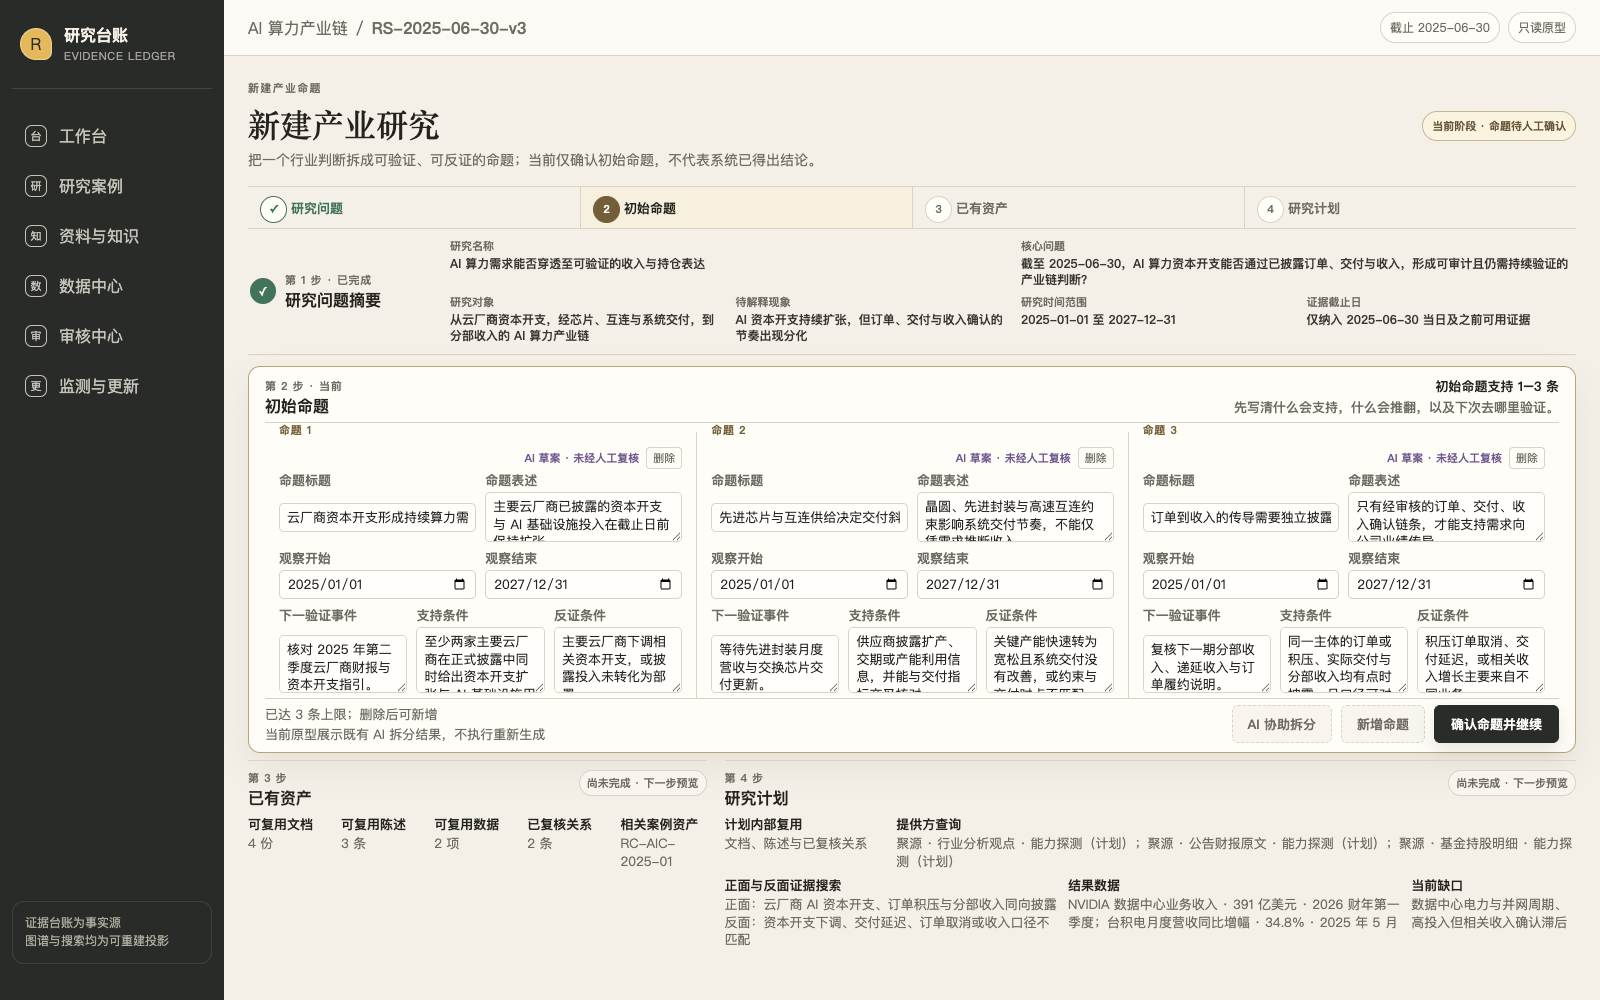
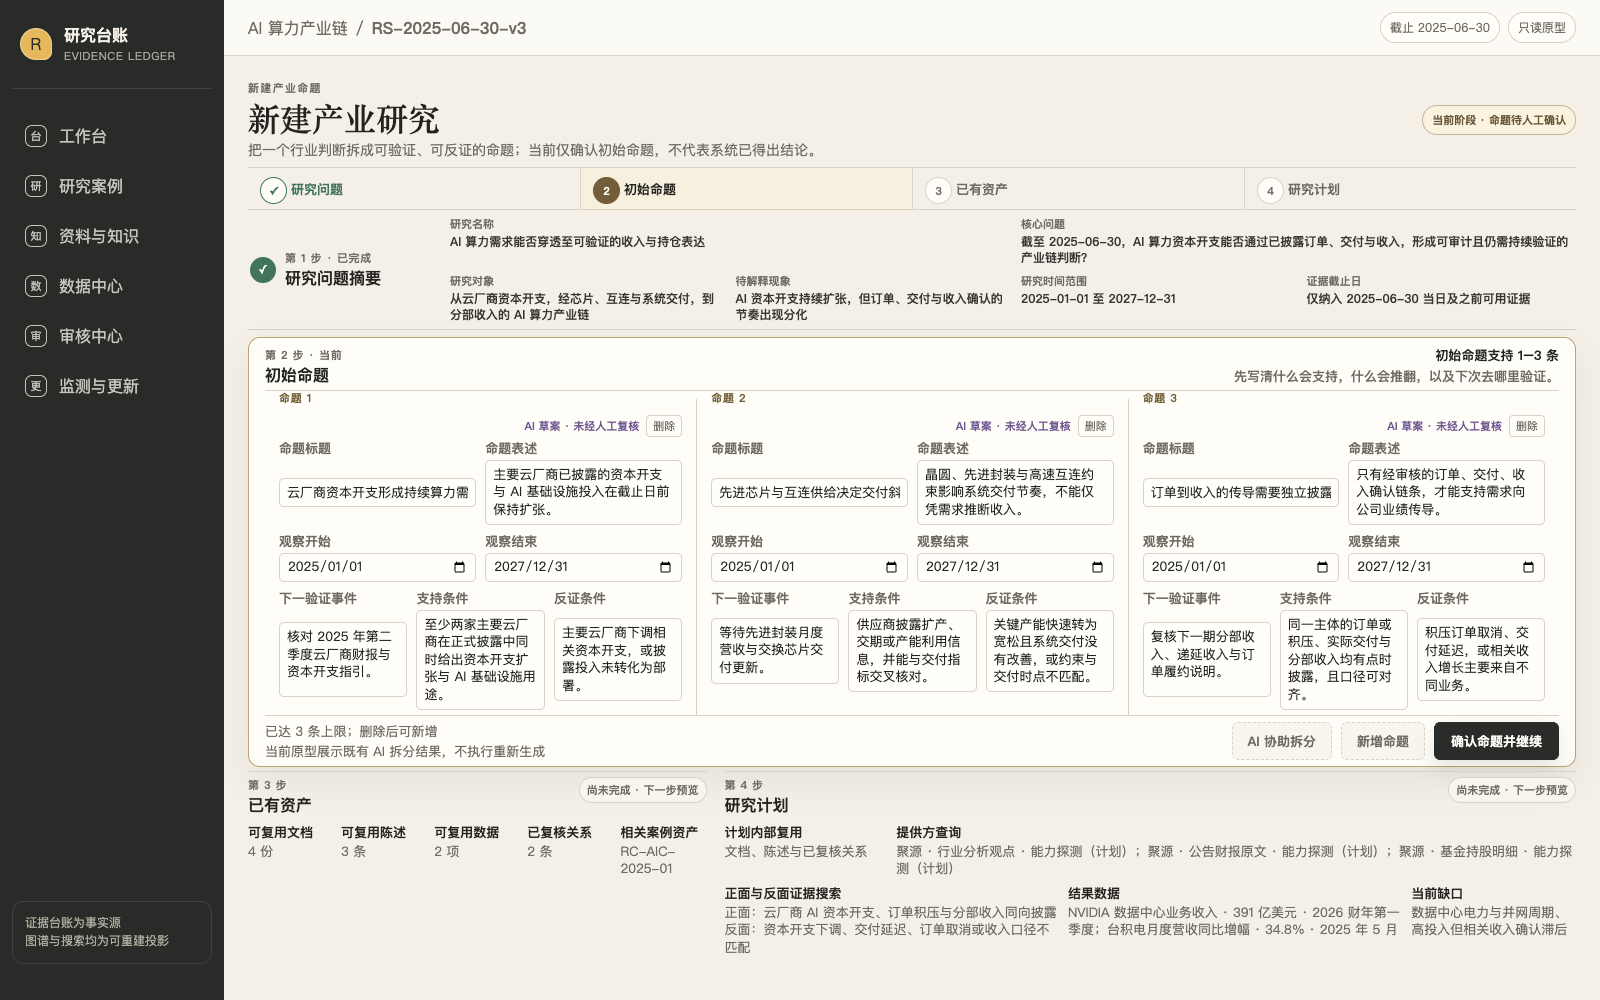
fix: autosize research thesis drafts

diff --git a/prototype/ui/app.js b/prototype/ui/app.js
@@ -625,6 +625,17 @@
       if (!draft) continue;
       for (const field of DRAFT_FIELDS) editor.querySelector(`[data-field="${field}"]`).value = draft[field];
     }
+    autoSizeThesisTextareas(form);
+  }
+
+  function autoSizeThesisTextarea(textarea) {
+    textarea.style.height = "auto";
+    const borderHeight = textarea.offsetHeight - textarea.clientHeight;
+    textarea.style.height = `${textarea.scrollHeight + borderHeight}px`;
+  }
+
+  function autoSizeThesisTextareas(root) {
+    for (const textarea of root.querySelectorAll("[data-thesis-editor] textarea")) autoSizeThesisTextarea(textarea);
   }
 
   const DRAFT_ERROR_MESSAGES = Object.freeze({
@@ -661,6 +672,7 @@
         firstInvalid ??= control;
       }
     }
+    autoSizeThesisTextareas(form);
     firstInvalid?.focus();
   }
 
@@ -705,6 +717,7 @@
     const container = form.querySelector(".thesis-editors");
     container.insertAdjacentHTML("beforeend", renderThesisEditor(blankDraft, container.children.length, fixture.case.aiLabel));
     updateThesisEditorControls(form);
+    autoSizeThesisTextareas(container.lastElementChild);
     container.lastElementChild.querySelector('[data-field="title"]').focus();
   }
 
@@ -712,6 +725,7 @@
     const form = app.querySelector('.new-research-screen form[aria-label="初始命题"]');
     if (!form) return;
     updateThesisEditorControls(form);
+    autoSizeThesisTextareas(form);
     form.addEventListener("click", (event) => {
       const removeButton = event.target.closest("[data-remove-thesis]");
       if (removeButton) {
@@ -728,6 +742,7 @@
       const control = event.target.closest("[data-field]");
       const editor = control?.closest("[data-thesis-editor]");
       if (!editor) return;
+      if (control.matches("textarea")) autoSizeThesisTextarea(control);
       const originLabel = editor.querySelector("[data-draft-origin-label]");
       if (editor.dataset.origin === "ai") {
         originLabel.textContent = editor.dataset.wasConfirmed === "true"
@@ -826,6 +841,7 @@
   }
 
   renderShell(requestedScreen());
+  window.addEventListener("pageshow", () => autoSizeThesisTextareas(app));
   window.SCREEN_RENDERERS = SCREEN_RENDERERS;
   window.PROTOTYPE_OVERVIEW = Object.freeze({ buildOverviewViewModel });
   window.PROTOTYPE_NEW_RESEARCH = Object.freeze({ buildNewResearchViewModel, confirmationStorageKey });

diff --git a/prototype/ui/styles.css b/prototype/ui/styles.css
@@ -769,9 +769,14 @@ a {
   gap: var(--space-5);
 }
 
+.new-research-heading .eyebrow {
+  margin-bottom: 2px;
+}
+
 .new-research-heading .lede {
   max-width: 920px;
-  margin-top: 5px;
+  margin-top: 2px;
+  line-height: 1.45;
 }
 
 .draft-boundary,
@@ -789,7 +794,7 @@ a {
 }
 
 .step-navigation {
-  margin-top: 13px;
+  margin-top: 7px;
   border-top: 1px solid var(--border);
   border-bottom: 1px solid var(--border);
 }
@@ -854,7 +859,7 @@ a {
 
 .question-summary {
   gap: 22px;
-  padding: 9px 2px;
+  padding: 6px 2px;
   border-bottom: 1px solid var(--border);
 }
 
@@ -932,8 +937,8 @@ a {
 
 .thesis-form {
   min-width: 0;
-  margin-top: 11px;
-  padding: 10px 16px 8px;
+  margin-top: 7px;
+  padding: 8px 16px 6px;
   border: 1px solid var(--workflow-border);
   border-radius: var(--radius-md);
   background: var(--paper);
@@ -942,7 +947,7 @@ a {
 
 .form-heading {
   align-items: flex-end;
-  padding-bottom: 6px;
+  padding-bottom: 4px;
   border-bottom: 1px solid var(--border);
 }
 
@@ -1110,7 +1115,8 @@ a {
 .thesis-fields textarea {
   min-height: 66px;
   padding: 5px 7px;
-  resize: vertical;
+  overflow-y: hidden;
+  resize: none;
 }
 
 .thesis-fields textarea[id$="-statement"] {
@@ -1219,7 +1225,7 @@ a {
   grid-template-columns: minmax(0, .7fr) minmax(0, 1.3fr);
   min-width: 0;
   gap: 18px;
-  margin-top: 7px;
+  margin-top: 4px;
 }
 
 .thesis-complete-summary {
@@ -1301,7 +1307,7 @@ a {
 
 .step-previews > section {
   min-width: 0;
-  padding-top: 9px;
+  padding-top: 5px;
   border-top: 1px solid var(--border);
 }
 
